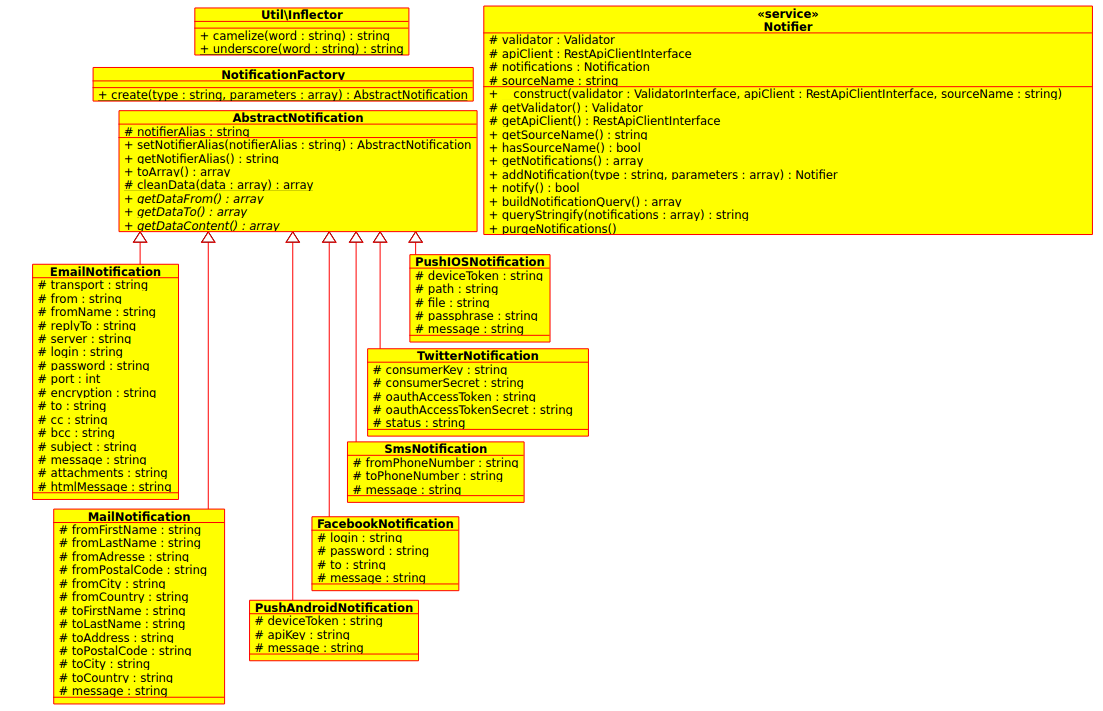
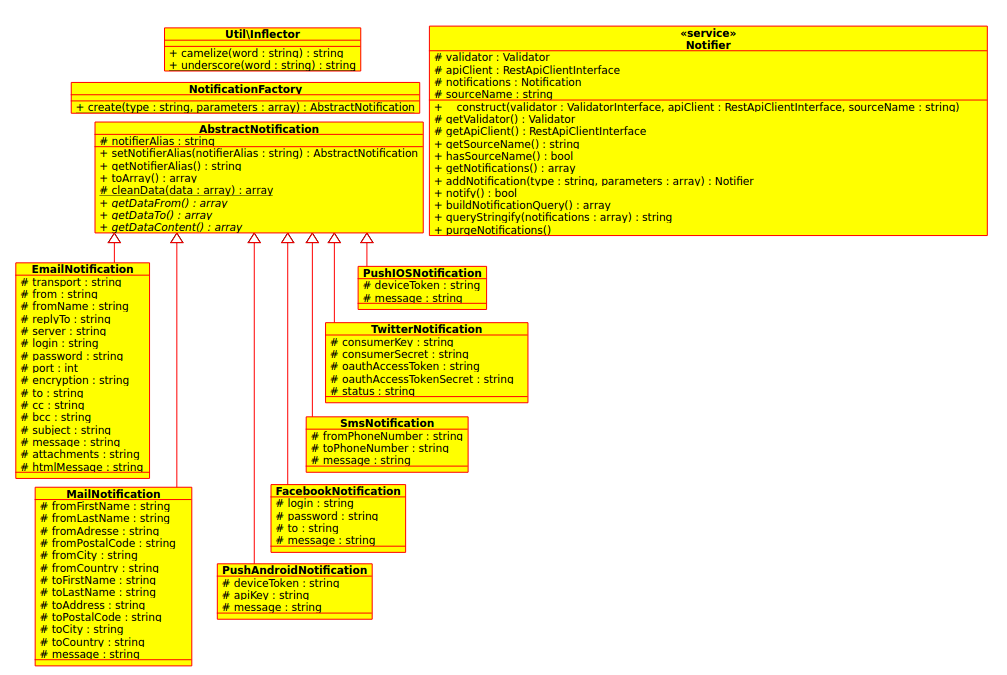
Remove subfromfields in PushIOSNotification update documentation

Changed region(s): [[0.0, 0.0, 1.0, 0.9956]]

diff --git a/Notification/PushIOSNotification.php b/Notification/PushIOSNotification.php
@@ -21,18 +21,6 @@ class PushIOSNotification extends AbstractNotification
     protected $deviceToken;
 
     /**
-     */
-    protected $path;
-
-    /**
-     */
-    protected $file;
-
-    /**
-     */
-    protected $passphrase;
-
-    /**
      * @Assert\NotBlank()
      * @Assert\Length(
      *     max = "218",
@@ -65,75 +53,6 @@ class PushIOSNotification extends AbstractNotification
     }
 
     /**
-     * Set certificate
-     *
-     * @param string $path
-     * @return PushIOSNotificationNotification
-     */
-    public function setPath($path)
-    {
-        $this->path = $path;
-
-        return $this;
-    }
-
-    /**
-     * Get path
-     *
-     * @return string
-     */
-    public function getPath()
-    {
-        return $this->path;
-    }
-
-    /**
-     * Set file
-     *
-     * @param string $file
-     * @return PushIOSNotificationNotification
-     */
-    public function setFile($file)
-    {
-        $this->file = $file;
-
-        return $this;
-    }
-
-    /**
-     * Get file
-     *
-     * @return string
-     */
-    public function getFile()
-    {
-        return $this->file;
-    }
-
-    /**
-     * Set passphrase
-     *
-     * @param string $passphrase
-     * @return IOSPushNotificationNotification
-     */
-    public function setPassphrase($passphrase)
-    {
-        $this->passphrase = $passphrase;
-
-        return $this;
-    }
-
-    /**
-     * Get passphrase
-     *
-     * @return string $passphrase
-     */
-    public function getPassphrase()
-    {
-        return $this->passphrase;
-    }
-
-    /**
      * Set message
      *
      * @param  string $message
@@ -161,13 +80,7 @@ class PushIOSNotification extends AbstractNotification
      */
     public function getDataFrom()
     {
-        return array(
-            'certificate' => array(
-                "path" => $this->getPath(),
-                "file" => $this->getFile()
-            ),
-            'passphrase'  => $this->getPassphrase()
-        );
+        return array();
     }
 
     /**

diff --git a/Resources/doc/notification.md b/Resources/doc/notification.md
@@ -362,12 +362,6 @@ $response2 = $this->get('notification_api_client.notifier')
 |---------------|----------|--------------|------------
 | deviceToken   | false    | string value | An "address" that a push notification will be sent to.
 
-#### Field "from" :
-
-| Subfield        | Optional | Requirements | Description
-|-----------------|----------|--------------|------------
-| passphrase      | true     | string value | Passphrase used to access a certificate
-
 #### Field "content" :
 
 | Subfield    | Optional | Requirements | Description
@@ -381,31 +375,18 @@ The function `notify()` returns a response from an API Client.
 |-----------------|--------
 | true            | This function return only the value true if the notification has been sent. If not, an Da\ApiClientBundle\Exception\ApiHttpResponseException will be thrown.
 
-#### Case 1 : notification with notifier parameters
-```php
-$response1 = $this->get('notification_api_client.notifier')
-    ->addNotification("pushIOS", array(
-        "deviceToken" => "c5de75d953cff905600hdju153er91f688d99bd408ada5a8d4531d546e20ce6",
-        "path"        => "/path/of/your/certificate_file.pem",
-        "file"        => null,
-        "passphrase"  => "your_passphrase",
-        "message"     => "push iOS message"
-    ))
-    ->notify()
-;
-```
-
-#### Case 2 : notification without notifier parameters
+#### Notification with an notifier alias
 ```php
 $response2 = $this->get('notification_api_client.notifier')
     ->addNotification("pushIOS", array(
-        "notifierAlias" => "my_pushIOS_alias",
+        "notifierAlias" => "my_push_ios_alias",
         "deviceToken"   => "c5de75d953cff905600hdju153er91f688d146d408ada5a8d4531d546e20ce6",
         "message"       => "push iOS message"
     ))
     ->notify()
 ;
 ```
+Note : You can only use a notification with an notifier alias.
 
 ### Push Android
 
